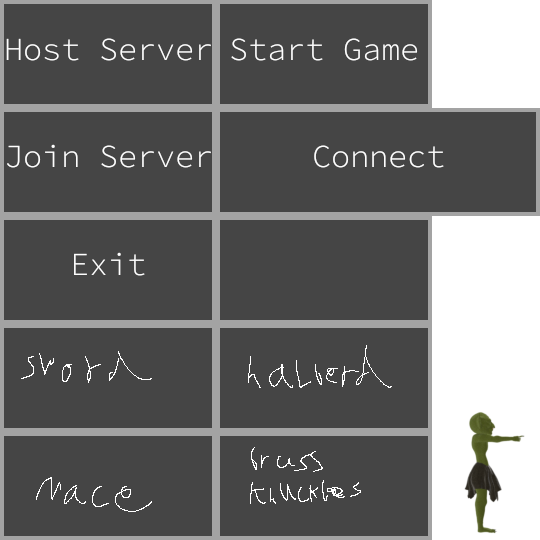
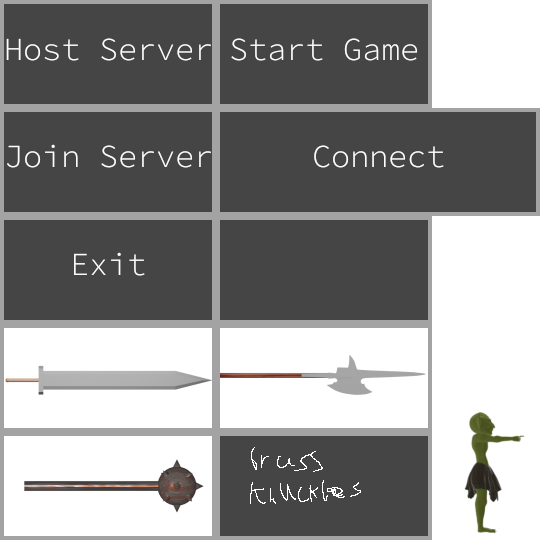
better main menu weapon select assets

Changed region(s): [[0.0, 0.5926, 0.8, 1.0]]

diff --git a/core/src/game/shootergame/MainMenu.java b/core/src/game/shootergame/MainMenu.java
@@ -125,8 +125,8 @@ public class MainMenu {
     private void showWeaponSelect() {
         if(getAndRenderButton(swordReg, -0.7f, -0.45f, 0.5f, 0.25f, selectedWeaponIndex == 0)) { selectedWeaponIndex = 0; }
         if(getAndRenderButton(halberdReg, -0.2f, -0.45f, 0.5f, 0.25f, selectedWeaponIndex == 1)) { selectedWeaponIndex = 1; }
-        if(getAndRenderButton(maceReg, -0.7f, -0.7f, 0.5f, 0.25f, selectedWeaponIndex == 2)) { selectedWeaponIndex = 2; }
-        if(getAndRenderButton(brassReg, -0.2f, -0.7f, 0.5f, 0.25f, selectedWeaponIndex == 3)) { selectedWeaponIndex = 3; }
+        if(getAndRenderButton(maceReg, 0.3f, -0.45f, 0.5f, 0.25f, selectedWeaponIndex == 2)) { selectedWeaponIndex = 2; }
+        //if(getAndRenderButton(brassReg, -0.2f, -0.7f, 0.5f, 0.25f, selectedWeaponIndex == 3)) { selectedWeaponIndex = 3; }
     }
 
     private boolean getAndRenderButton(TextureRegion reg, float x, float y, float width, float height, IsHover isHover) {
